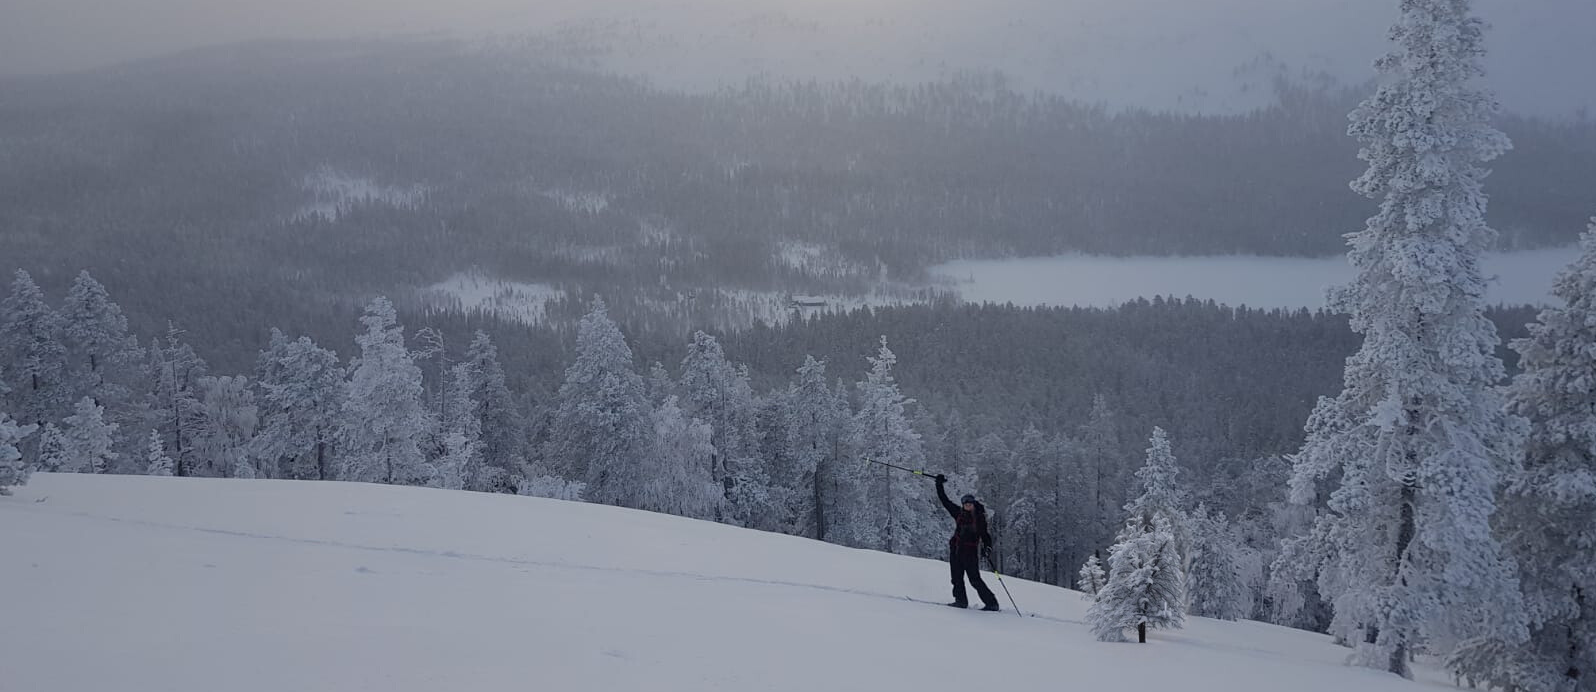
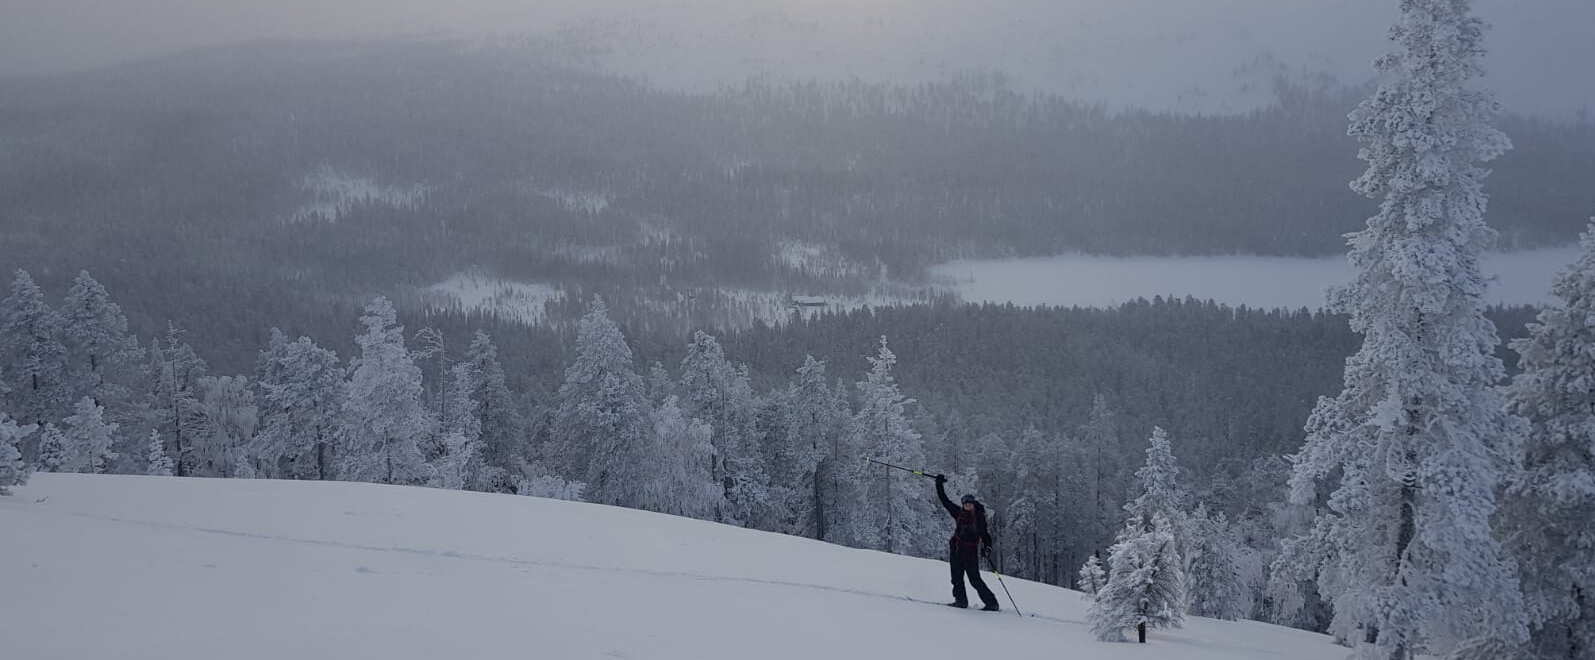
yllas pic resized

Changed region(s): [[0.0, 0.1212, 1.0, 1.0], [0.8909, 0.0606, 0.9216, 0.1212], [0.1843, 0.303, 0.215, 0.3333]]

diff --git a/assets/css/style.css b/assets/css/style.css
@@ -189,9 +189,9 @@ nav.navbar.bootsnav .navbar-toggle i{
     align-items: center;
     justify-content: center;
     position:relative;
-    background:url(../static/yllas8.png)no-repeat;
+    background:url(../static/yllas8.png)no-repeat bottom;
     background-size:cover;
-    background-position: center;
+    /*background-position: center;*/
     height:750px;
 }
 .hero:before{
